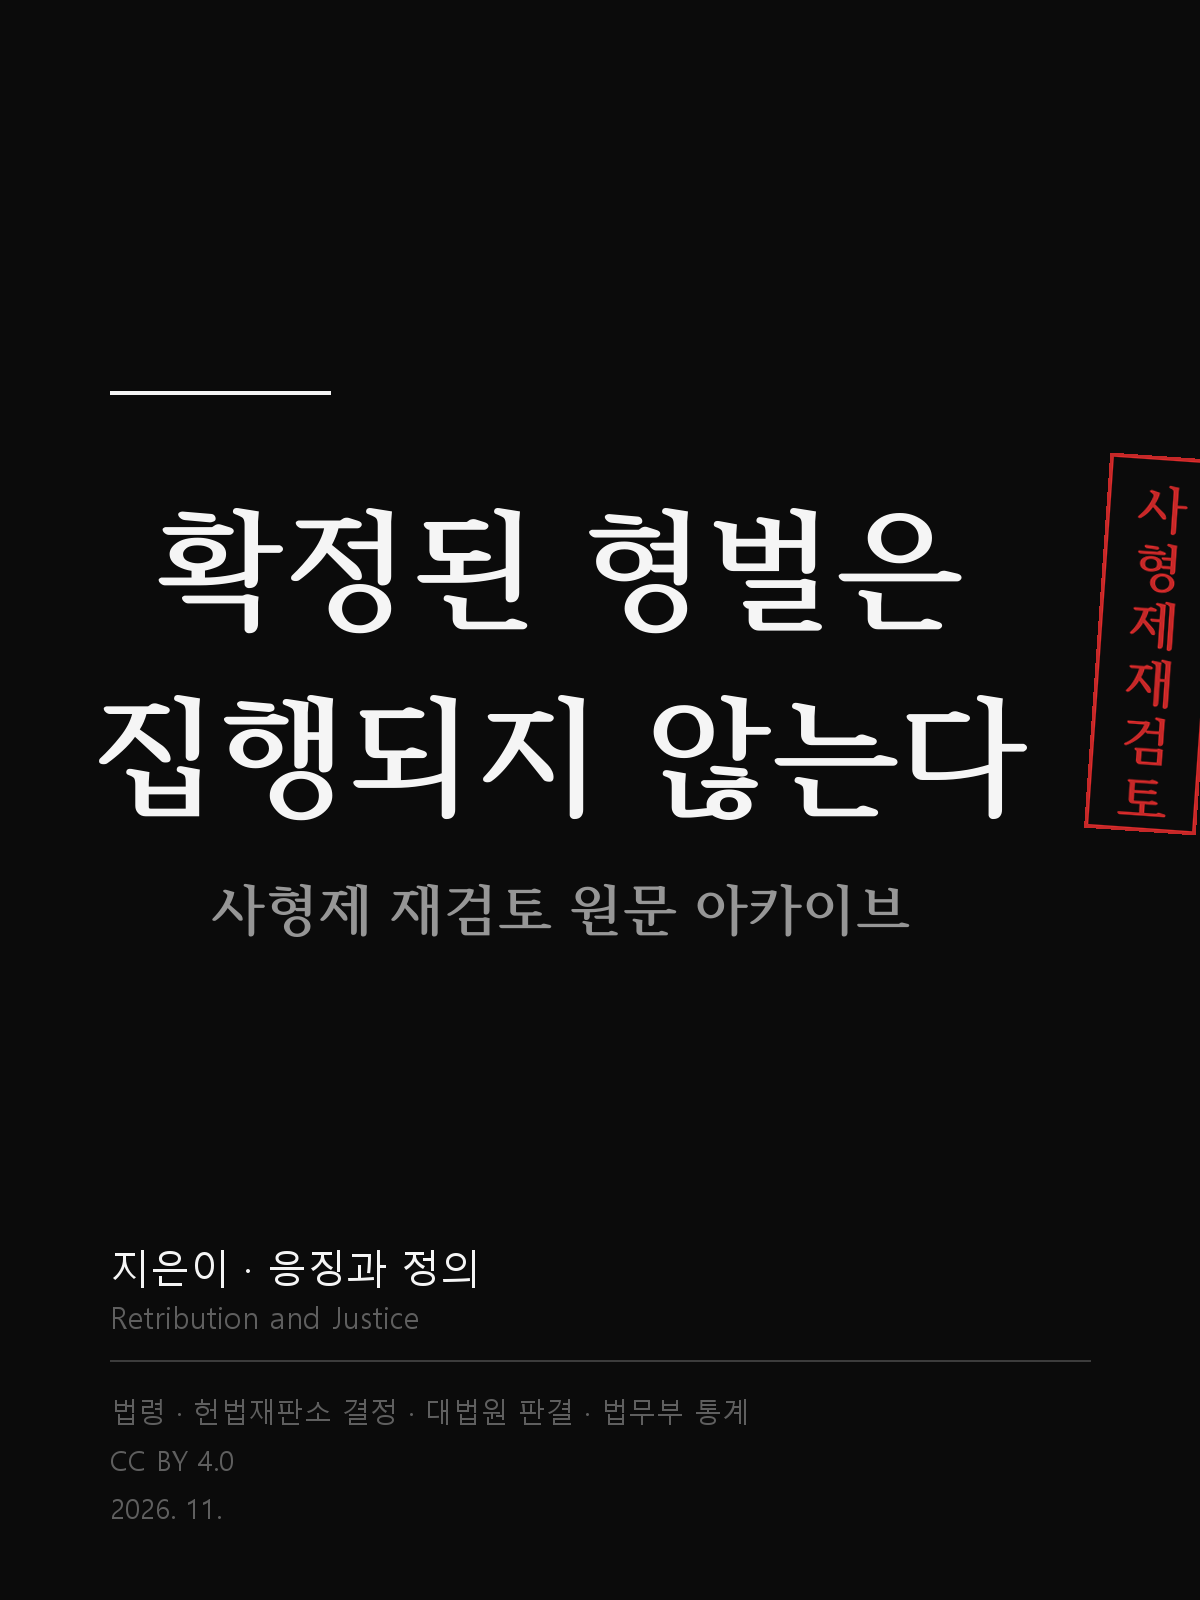
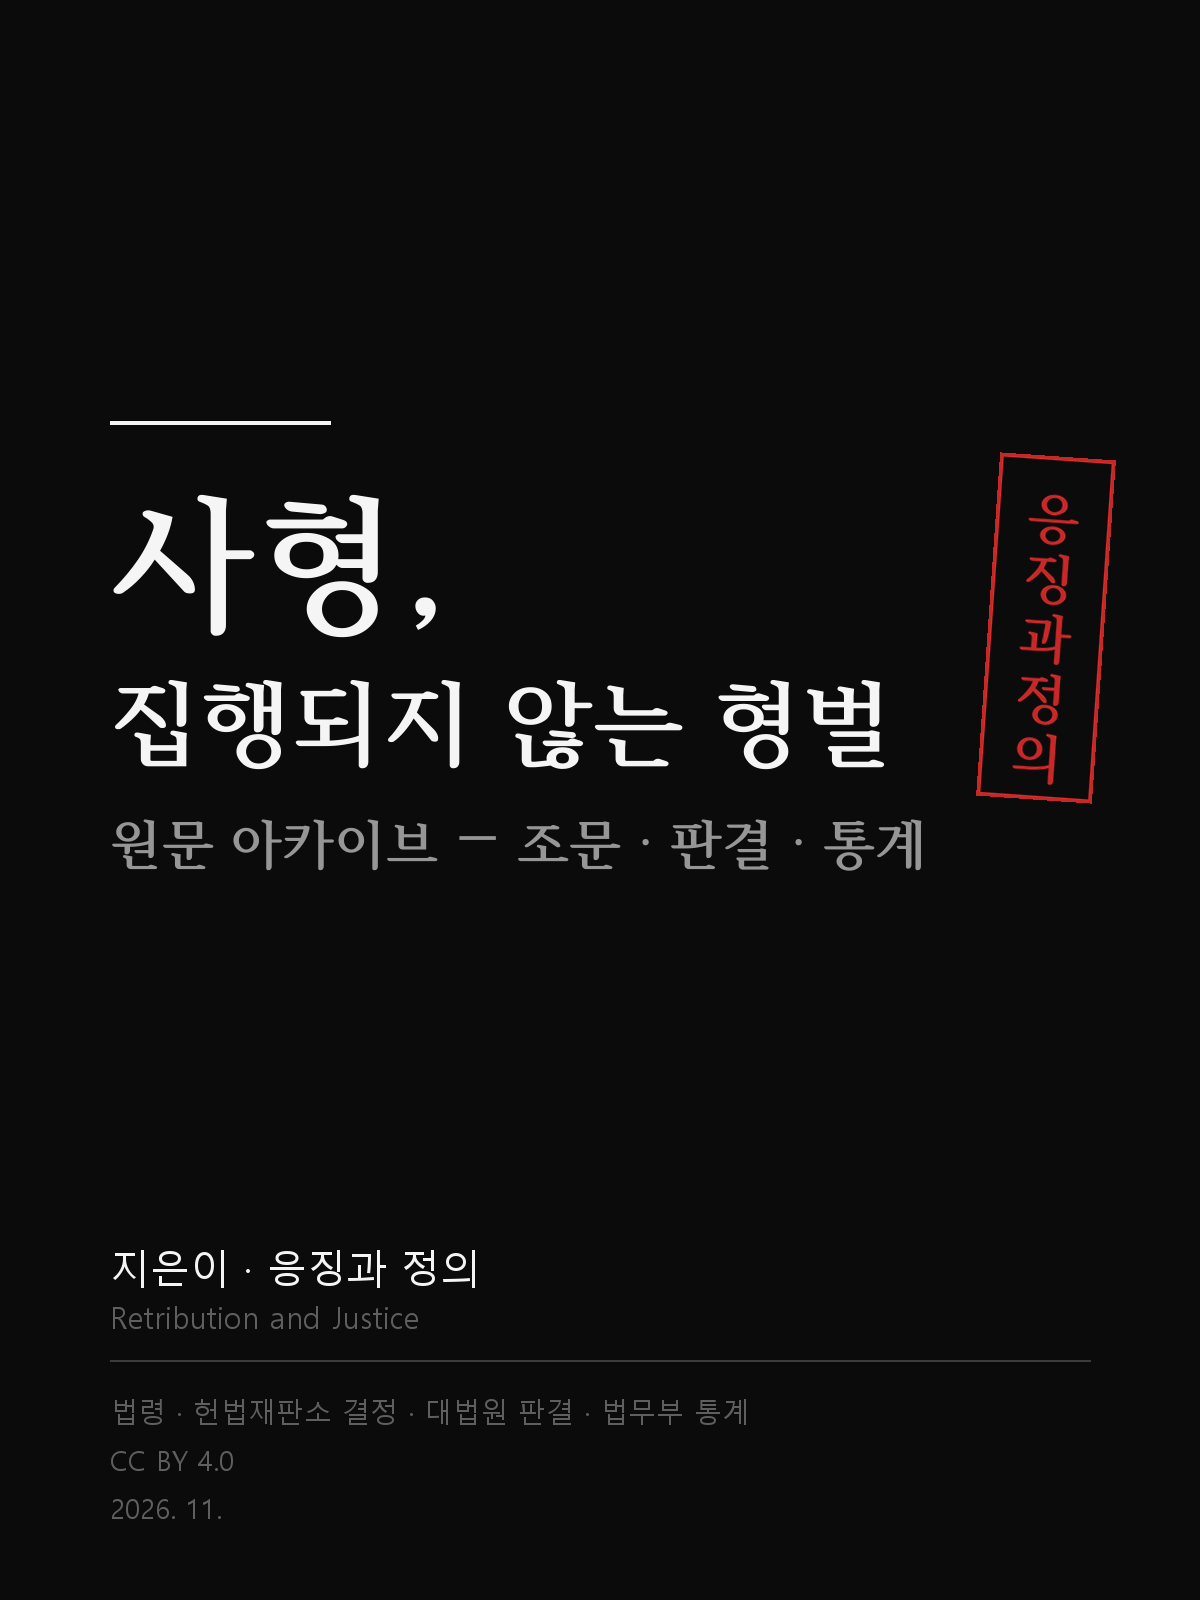
제목 '사형, 집행되지 않는 형벌' / 도장 '응징과 정의' / 1장 제목 6개월과 29년

Changed region(s): [[0.0925, 0.2812, 1.0, 0.5938]]

diff --git a/make_cover.py b/make_cover.py
@@ -16,12 +16,13 @@ GRAY = (150, 150, 150)
 DIM = (95, 95, 95)
 RED = (198, 40, 40)
 
-TITLE = ["확정된 형벌은", "집행되지 않는다"]
-SUB = "사형제 재검토 원문 아카이브"
+TITLE = ["사형,", "집행되지 않는 형벌"]
+SUB = "원문 아카이브 — 조문 · 판결 · 통계"
 AUTHOR = "지은이 · 응징과 정의"
 EN = "Retribution and Justice"
 FOOT = "법령 · 헌법재판소 결정 · 대법원 판결 · 법무부 통계"
 LIC = "CC BY 4.0"
+SEAL = "응징과 정의"
 
 
 def fit(text, path, max_w, start, floor=20):
@@ -34,16 +35,19 @@ def fit(text, path, max_w, start, floor=20):
     return ImageFont.truetype(path, floor)
 
 
-def seal(w=112, h=376):
+def seal(w=116):
+    chars = [c for c in SEAL if c.strip()]
+    pitch = 60
+    h = len(chars) * pitch + 44
     im = Image.new("RGBA", (w, h), (0, 0, 0, 0))
     d = ImageDraw.Draw(im)
     d.rectangle([0, 0, w - 1, h - 1], outline=RED + (255,), width=4)
-    f = ImageFont.truetype(SERIF, 52)
-    y = (h - 6 * 58) // 2
-    for ch in "사형제재검토":
+    f = ImageFont.truetype(SERIF, 54)
+    y = (h - len(chars) * pitch) // 2
+    for ch in chars:
         tw = f.getlength(ch)
         d.text(((w - tw) / 2, y), ch, font=f, fill=RED + (255,))
-        y += 58
+        y += pitch
     return im.rotate(-4, expand=True, resample=getattr(Image, "Resampling", Image).BICUBIC)
 
 
@@ -52,22 +56,21 @@ def main():
     im = Image.new("RGB", (W, H), BG)
     d = ImageDraw.Draw(im)
 
-    # 상단 얇은 선
-    d.line([(110, 392), (330, 392)], fill=WHITE, width=4)
+    st = seal()
+    stx, sty = W - 84 - st.width, 452
+    d.line([(110, sty - 30), (330, sty - 30)], fill=WHITE, width=4)
 
-    y = 470
+    y = sty
     for line in TITLE:
-        f = fit(line, SERIF, 980, 132)
+        f = fit(line, SERIF, 800, 150)
         tw = f.getlength(line)
-        d.text(((W - tw) / 2 - 40, y), line, font=f, fill=WHITE)
-        y += int(f.size * 1.42)
+        d.text((110, y), line, font=f, fill=WHITE)
+        print(f"  '{line}' → {int(f.size)}pt / 폭 {int(tw)}px")
+        y += int(f.size * 1.34)
 
-    # 부제
-    fs = fit(SUB, SERIF, 900, 56)
-    d.text(((W - fs.getlength(SUB)) / 2 - 40, y + 24), SUB, font=fs, fill=GRAY)
-
-    # 도장 (우상단)
-    im.paste(seal(), (1196 - 112, 452), seal())
+    fs = fit(SUB, SERIF, 900, 54)
+    d.text((110, y + 26), SUB, font=fs, fill=GRAY)
+    im.paste(st, (stx, sty), st)
 
     # 하단 블록
     fa = ImageFont.truetype(SANS, 40)

diff --git a/README.md b/README.md
@@ -1,4 +1,4 @@
-# 확정된 형벌은 집행되지 않는다
+# 사형, 집행되지 않는 형벌
 
 **지은이 · 응징과 정의 (Retribution and Justice)**
 

diff --git a/TOC.md b/TOC.md
@@ -1,3 +1,3 @@
 # 목차
 
-- [01. 집행되지 않는 형벌](pages/01-not-executed.md)
+- [01. 6개월과 29년](pages/01-six-months.md)
